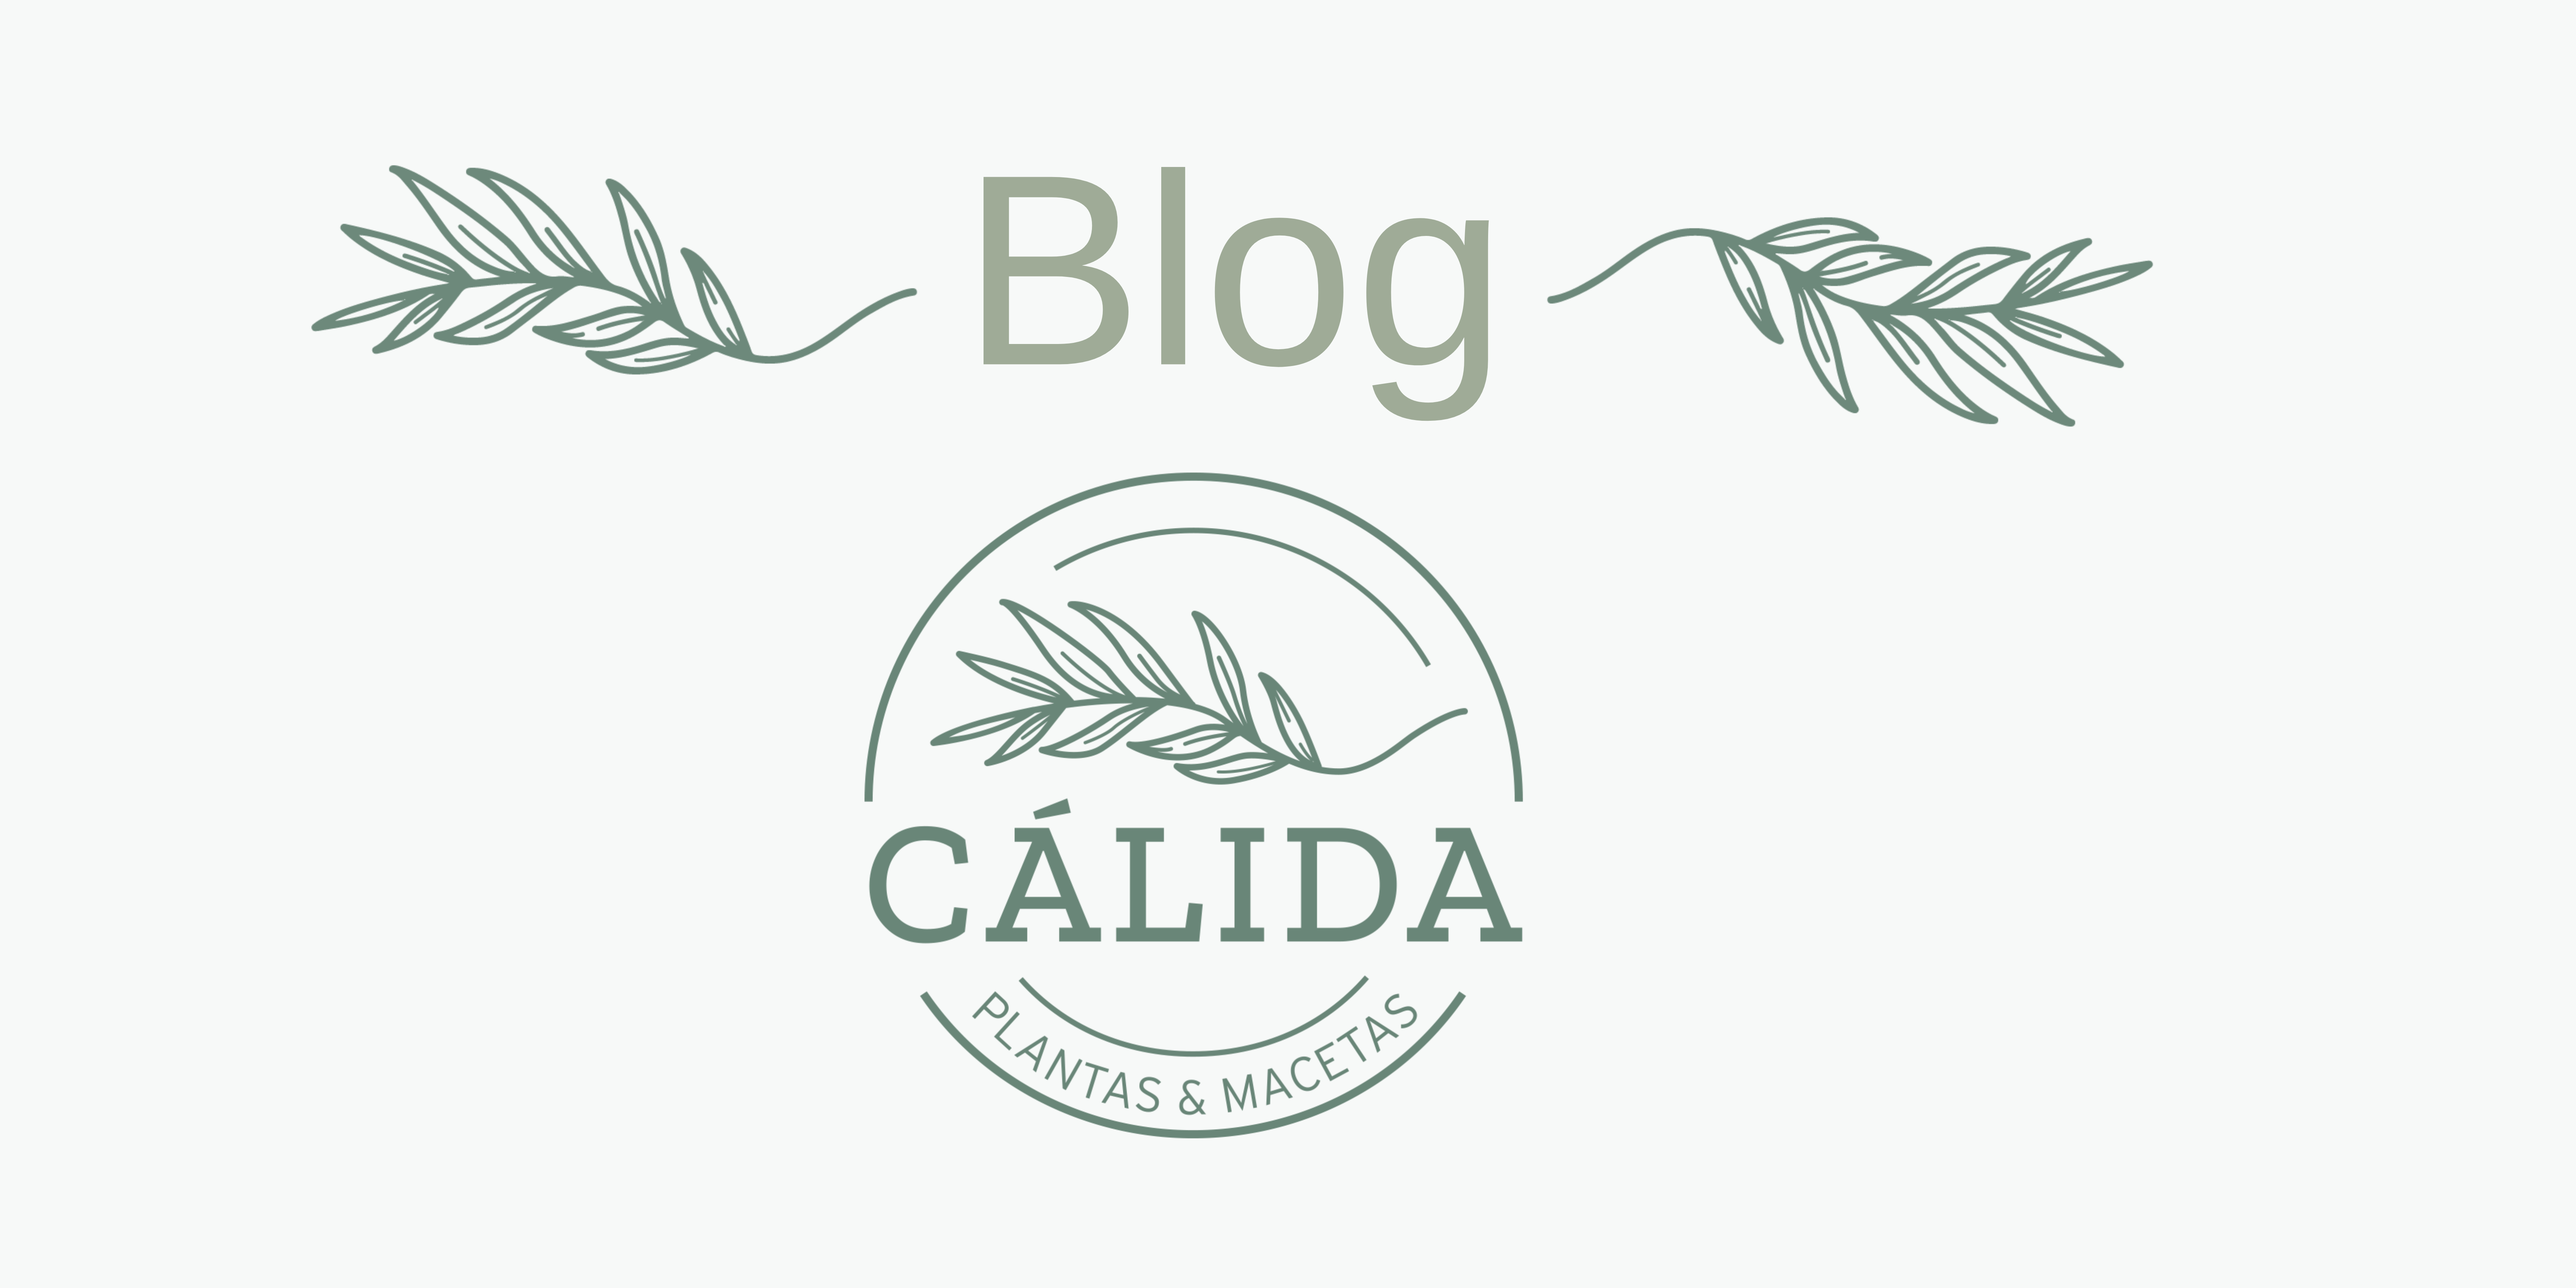
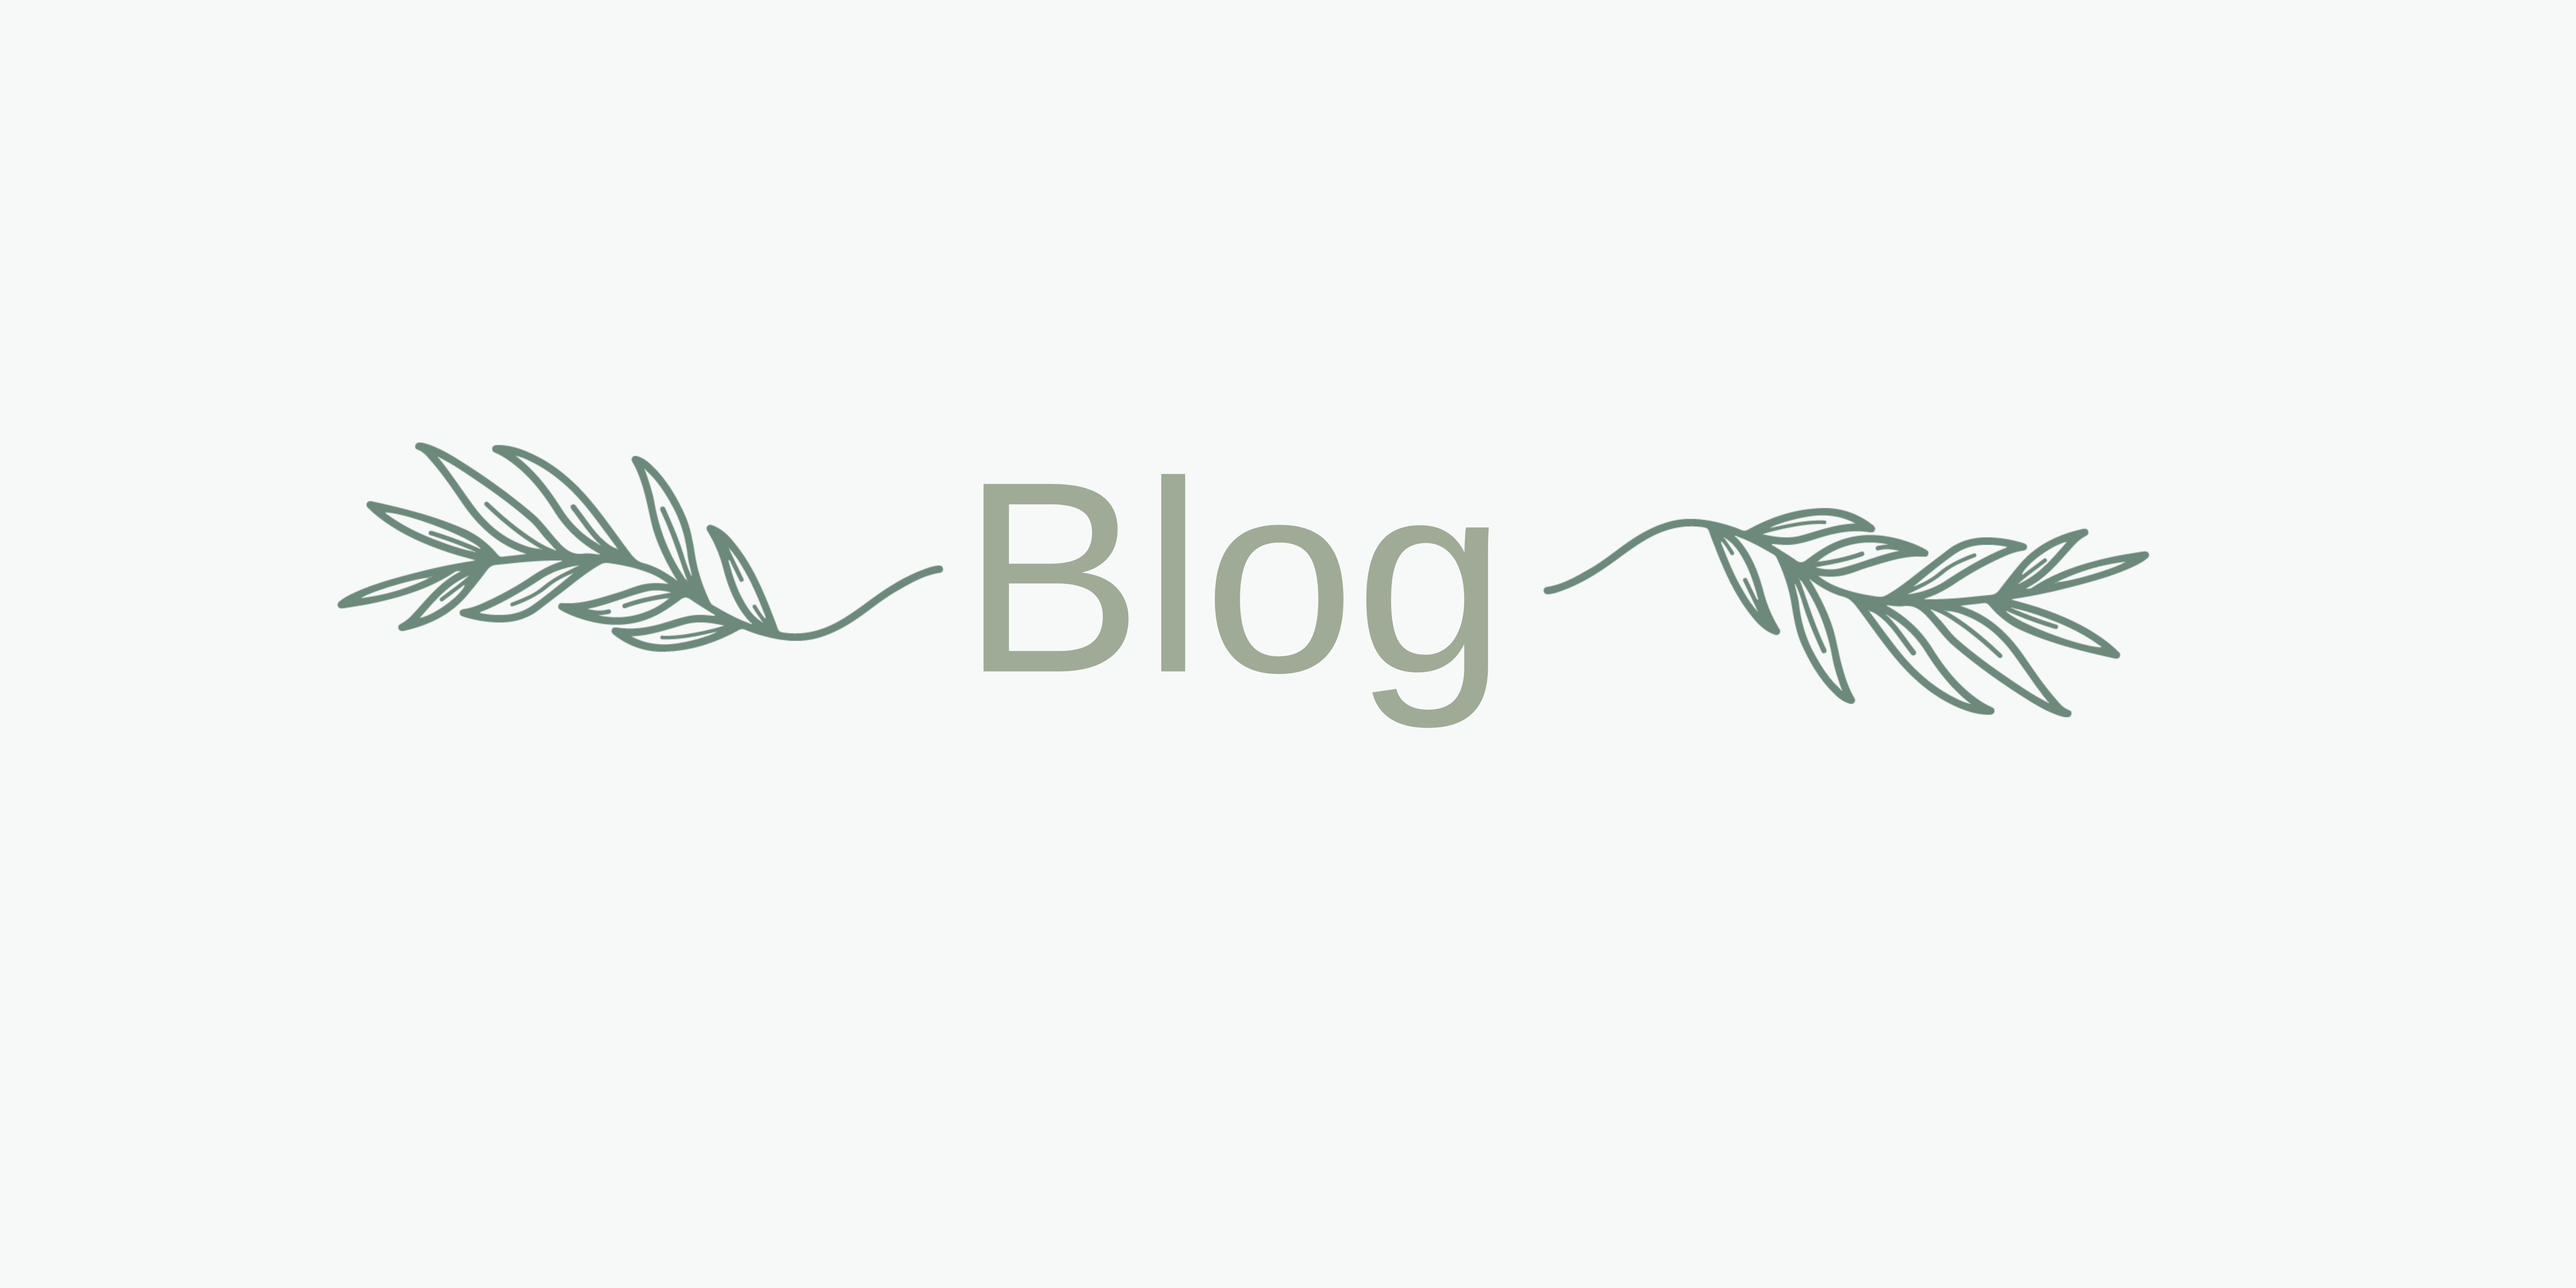
Se agrega la primer publicación del blog

diff --git a/pages/blog1.html b/pages/blog1.html
@@ -19,9 +19,43 @@
   <body>
 <!-- barra de navegacion -->
     <header id="anclaNavBar"></header>
-   
-
-
+ <!--Titulo de la publicación-->  
+    <h1 class="text-center">Tres consejos para cuidar tus plantas</h1>
+  <!--Contenido de la publicación-->
+    <div class="container">
+    <div class="row">
+        <div class="col-sm-3">   
+   <img src="../img/blog/Plantitablog1.jpeg" class="img-thumbnail" alt="" height="50">
+    </div>
+        </div>
+        <div class="col-sm-9">
+   <p>En estos tiempos de pandemia estar en casa es la nueva normalidad
+       y una de las actividades que puedes hacer de ella es el cuidado y mantenimiento de tus 
+      plantas. Por eso, Cálida te brinda estos tres consejos para que los tomes en cuenta al iniciar está aventura</p>
+    <p class="font-weight-bold">1. Identifica las plantas</p>
+    <p>Si vas a comenzar a renovar tu espacio o jardín tienes que elegir bien cuales eran las plantas adecuadas de acuerdo 
+        a las condiciones de luz solar y tamaño.</p>
+    <p>Por ejemplo, las orquídeas son una especie que se da mucho mejor en verano ya que sacan provecho de la humedad del 
+        ambiente. También las bromelias son una opción bastante interesante en esta época del año o las suculentas que son 
+        plantas fanáticas del sol. Todo depende de las condiciones de tu espacio.
+    </p>
+    <p class="font-weight-bold">2. Mantenerlas en el mismo lugar</p>  
+    <p>Podrás colocar la maceta en el lugar adecuado dentro de tu hogar o jardín de acuerdo a las necesidades de tus plantas.
+          Nuestras plantas necesitan aire fresco y limpio. </p>   
+    <p>Si están dentro de una habitación, asegúrate de ventilar para evitar que el calor lastime a tu planta. Si tus plantas 
+        están en el jardín, evita los cambios bruscos de temperatura en el ambiente de este espacio. Las plantas sienten las 
+        variaciones del clima y una variación grande pueden incomodarse y morir.
+    </p> 
+    <p class="font-weight-bold">3. Controla las plagas en tus plantas</p>
+    <p>Es importante revisar tus plantas de forma frecuente en búsqueda de insectos u hongos inusuales que podrían estar 
+        lastimandolas. Usar remedios caseros como el insecticida natural a base de dientes ajo. Colocarlo en un rociador 
+        y en las hijas y el sustrato cada 15 días. No olvides secarlas con un paño.
+    </p> 
+    <p>Así que ahora estas a tres consejos de iniciar el cuidado de tus plantas y tu espacio.No dudes en escribirnos para 
+        más información.</p>  
+        </div> 
+        </div>
+    
 
 
 

diff --git a/pages/blog.html b/pages/blog.html
@@ -22,7 +22,7 @@
         <header id="anclaNavBar"></header>
  <!--Inician cards del blog-->
  <div class="arriba">
-  <img src="../img/blog/Blog.png" class="img-fluid" alt="50" height="">
+  <img src="../img/blog/Blog.png" class="img-fluid" alt="50" height="50">
 </div>
  <div class="card mb-3" style="max-width: 540px;">
   <div class="row g-0">
